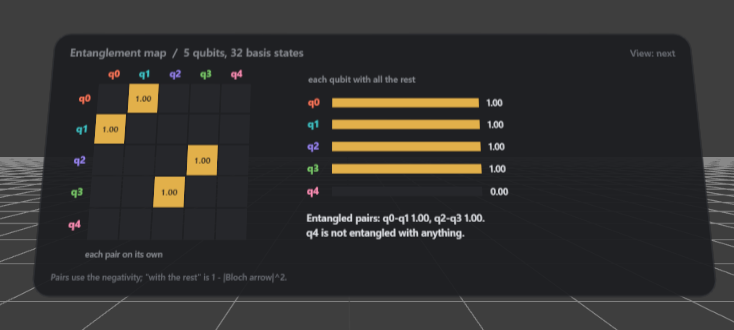
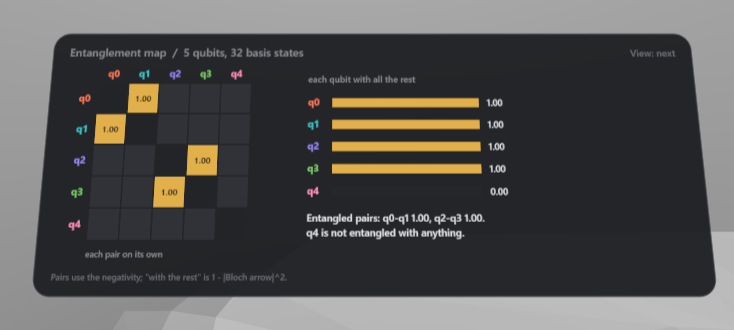
More README screenshots, and fixes found taking them
- README: debugger on a measurement, GHZ entanglement map, voice reply,
  share dialog, a refused gate in a shared lab, the student's view
- Debugger and class panels hang from their top edge under the board, so
  long explanations or many students never cover it
- Voice replies give the shared lab's reason when a gate is refused
- Room links drop unrelated query parameters (keep only ?relay=)
- Students see their teacher's name; no start button once all is done
- Certificate redraws when the teacher's name arrives
- Entanglement map: empty cells visible, diagonal darker

Changed region(s): [[0.0, 0.0, 1.0, 1.0]]

diff --git a/src/game/ui-system.ts b/src/game/ui-system.ts
@@ -67,6 +67,8 @@ const PLACEMENT = {
   'notes-zoom': { pos: new Vector3(0, 0.4, -0.05), rot: new Euler(0, 0, 0, 'YXZ') },
   // notes: in front of the circuit board, low enough to read without looking up
   'notes-panel': { pos: new Vector3(0, 0.3, -0.17), rot: new Euler(-0.1, 0, 0, 'YXZ') },
+  // the debugger and class panel hang from their top edge (anchor-y: top), just under the raised board
+  'under-board': { pos: new Vector3(0, 0.332, -0.17), rot: new Euler(-0.1, 0, 0, 'YXZ') },
   // upper right, opposite the chapter card and above the dock
   'nav-panel': { pos: new Vector3(0.47, 0.26, -0.06), rot: new Euler(-0.12, (-32 * Math.PI) / 180, 0, 'YXZ') },
 } as const;
@@ -177,8 +179,8 @@ export class UISystem extends createSystem({
   private libAsset: UIKitMLAsset | null = null;
   private dbgAsset: UIKitMLAsset | null = null;
   private classAsset: UIKitMLAsset | null = null;
-  /** student rows showing on the class panel: it grows downward as they join */
-  private classRows = 0;
+  /** why the shared lab last refused an op (for the voice reply) */
+  private refused: string | null = null;
   /** Shared lab or classroom, while in one. */
   private room: SharedRoom | null = null;
   private classOpen = false;
@@ -259,6 +261,7 @@ export class UISystem extends createSystem({
           if (e.type === 'select') this.room.select(e.qubit);
         }
         if (e.type === 'rejected' && lab.guard) {
+          this.refused = e.reason;
           this.flash(e.reason);
           feedback('reject');
         }
@@ -732,8 +735,10 @@ export class UISystem extends createSystem({
       this.flash(`Heard "${text.trim()}": not a command I know.`);
       return feedback('reject');
     }
+    this.refused = null;
     const ok = this.runVoice(cmd);
-    this.flash(`Heard "${text.trim()}": ${ok ? describeVoice(cmd) : `${describeVoice(cmd)} is not possible here`}.`);
+    // a shared lab refusing the gate says why (whose qubit it is); keep that rather than a generic no
+    this.flash(`Heard "${text.trim()}": ${ok ? `${describeVoice(cmd)}.` : this.refused ?? `${describeVoice(cmd)} is not possible here.`}`);
     feedback(ok ? 'select' : 'reject');
   }
 
@@ -884,7 +889,9 @@ export class UISystem extends createSystem({
   }
 
   private roomLink(code: string): string {
-    return `${location.origin}${location.pathname}${location.search}#room=${code}`;
+    // keep only the relay choice: other query parameters (dev tooling) don't belong in a shared link
+    const relay = new URLSearchParams(location.search).get('relay');
+    return `${location.origin}${location.pathname}${relay ? `?relay=${encodeURIComponent(relay)}` : ''}#room=${code}`;
   }
 
   /** A #room=CODE link joins that room. */
@@ -1082,7 +1089,9 @@ export class UISystem extends createSystem({
     const students = [...r.peers.values()].filter((p) => p.role === 'student');
     const steps = (m: number) => COURSE[m]?.steps.length ?? 1;
     const titles = (ms: readonly number[]) => ms.map((m) => `${m + 1} ${COURSE[m]?.title ?? ''}`).join(', ');
-    this.text('cl-eyebrow', `Class ${r.code}  /  ${students.length} student${students.length === 1 ? '' : 's'}${teacher ? '' : `  /  you: ${r.me.name}`}`);
+    // the teacher counts students; a student sees who teaches the class
+    const teacherName = [...r.peers.values()].find((p) => p.role === 'teacher')?.name;
+    this.text('cl-eyebrow', teacher ? `Class ${r.code}  /  ${students.length} student${students.length === 1 ? '' : 's'}` : `Class ${r.code}${teacherName ? `  /  teacher ${teacherName}` : ''}  /  you: ${r.me.name}`);
     this.text('cl-title', teacher ? 'Assign modules, watch progress' : 'Your assignment');
     this.els.get('cl-pick')?.setProperties({ display: teacher ? 'flex' : 'none' });
     const picked = r.assigned.includes(this.classPick);
@@ -1094,7 +1103,6 @@ export class UISystem extends createSystem({
     const rows: { name: string; p: Progress | undefined }[] = teacher
       ? students.map((s) => ({ name: s.name, p: r.progress.get(s.id) }))
       : [{ name: r.me.name, p: { mode: campaign.mode, module: campaign.courseIndex, step: campaign.view.chapterDone ? steps(campaign.courseIndex) : campaign.view.stepIndex, steps: steps(campaign.courseIndex), done: [...campaign.coursed] } }];
-    this.classRows = Math.min(rows.length, 6);
     for (let i = 0; i < 6; i++) {
       const row = rows[i];
       this.els.get(`cl-r-${i}`)?.setProperties({ display: row ? 'flex' : 'none' });
@@ -1110,7 +1118,9 @@ export class UISystem extends createSystem({
     }
     if (!rows.length) this.text('cl-line', `${r.assigned.length ? `Assigned: ${titles(r.assigned)}. ` : ''}No students yet: they join with code ${r.code}.`);
     this.els.get('cl-list')?.setProperties({ display: rows.length ? 'flex' : 'none' });
-    this.els.get('cl-go')?.setProperties({ display: teacher ? 'none' : 'flex' });
+    // nothing left to start once every assigned module is done
+    const todo = r.assigned.some((m) => !campaign.coursed.has(m));
+    this.els.get('cl-go')?.setProperties({ display: teacher || !todo ? 'none' : 'flex' });
     this.els.get('cl-cert')?.setProperties({ display: teacher ? 'none' : 'flex' });
     this.bg('cl-cert', this.certificateInfo() ? C.done : '#34363b');
   }
@@ -2031,16 +2041,14 @@ export class UISystem extends createSystem({
       this.notesAsset!.position.copy(PARKED);
     }
     if (this.classOpen) {
-      this.place(this.classAsset!, 'notes-panel');
-      // the panel grows from its centre: keep its top edge under the board
-      this.classAsset!.position.y -= 0.011 * Math.max(0, this.classRows - 1);
+      this.place(this.classAsset!, 'under-board');
       this.classAsset!.visible = true;
     } else {
       this.classAsset!.visible = false;
       this.classAsset!.position.copy(PARKED);
     }
     if (this.dbgOpen) {
-      this.place(this.dbgAsset!, 'notes-panel');
+      this.place(this.dbgAsset!, 'under-board');
       this.dbgAsset!.visible = true;
     } else {
       this.dbgAsset!.visible = false;

diff --git a/src/lab/lab-system.ts b/src/lab/lab-system.ts
@@ -540,7 +540,7 @@ export class LabSystem extends createSystem({
 
   /** The completion certificate on the board (null puts the circuit back). */
   showCertificate(info: CertificateInfo | null): void {
-    this.showOverlay(info ? `cert:${info.name}:${info.modules.join(',')}` : null, info ? (b) => b.draw((g, w, h) => drawCertificate(g, w, h, info)) : undefined);
+    this.showOverlay(info ? `cert:${info.name}:${info.modules.join(',')}:${info.context}` : null, info ? (b) => b.draw((g, w, h) => drawCertificate(g, w, h, info)) : undefined);
   }
 
   /** A big-state view (null puts the circuit back). */

diff --git a/src/lab/circuit-board.ts b/src/lab/circuit-board.ts
@@ -569,7 +569,8 @@ export class CircuitBoard {
       for (let a = 0; a < n; a++)
         for (let c = 0; c < n; c++) {
           const x = x0 + c * size, y = y0 + a * size;
-          g.fillStyle = '#26272b';
+          // empty cells stay visible; the diagonal (a qubit with itself) is darker
+          g.fillStyle = a === c ? '#232428' : '#303237';
           g.fillRect(x + 2, y + 2, size - 4, size - 4);
           if (a === c) continue;
           const v = m.pair[a][c];

diff --git a/README.md b/README.md
@@ -456,7 +456,9 @@ included, in anyone's sandbox. Links are validated before anything is loaded.
 
 ## Step debugger
 
-![The step debugger stopped at a breakpoint on a GHZ circuit, with the histogram and the reason for the change](docs/screenshots/step-debugger.png)
+| Stopped at a breakpoint | Stepping onto a measurement |
+| --- | --- |
+| ![The step debugger stopped at a breakpoint on a GHZ circuit: the pair q0-q1 is no longer entangled on its own because the entanglement spans the whole group](docs/screenshots/step-debugger.png) | ![The debugger on a measured Bell pair: measuring q0 = 1 collapsed the state onto 11, and q0 and q1 are no longer entangled](docs/screenshots/debugger-measure.png) |
 
 **Debug** on the dock (or Shift+D) opens a debugger for the circuit on the orbs.
 Step back and forward one gate at a time, set **breakpoints** on timeline steps
@@ -489,9 +491,13 @@ too big for one Bloch sphere each.
   underneath. A GHZ state shows weak pairs but every qubit fully entangled: the
   entanglement belongs to the whole group.
 
-![Entanglement map: two Bell pairs light up q0-q1 and q2-q3, and q4 is on its own](docs/screenshots/heatmap.png)
+| Two Bell pairs | A four-qubit GHZ state |
+| --- | --- |
+| ![Entanglement map: two Bell pairs light up q0-q1 and q2-q3, and q4 is on its own](docs/screenshots/heatmap.png) | ![Entanglement map of a GHZ state: no pair is entangled on its own, yet every qubit is fully entangled with the rest](docs/screenshots/heatmap-ghz.png) |
 
 ## Voice commands
+
+![The dock after saying "entangle zero and one": the reply shows it heard a CNOT from q0 to q1](docs/screenshots/voice.png)
 
 **Voice** on the dock (or V) listens through the browser's speech recogniser.
 It is forgiving about how things are said, and every
@@ -522,6 +528,10 @@ are refused with a short note. A two-qubit gate is allowed when one of the
 qubits is yours or free, so you can still entangle with a partner. Someone who
 joins as a teacher can turn any qubit.
 
+| The room on the 2D page | Someone else's qubit |
+| --- | --- |
+| ![The share dialog for room LK7QF: a QR code, the link and who is here](docs/screenshots/share-dialog.png) | ![Saying "Hadamard on qubit zero" in a shared lab: q0 belongs to Ana, so the gate is refused](docs/screenshots/shared-refused.png) |
+
 Rooms have a short code (`LK7QF`) and a link with a QR code, so a phone or a
 second headset joins by scanning it. Edits that cross are settled the same way
 on every device (newest version wins, ties by id), so everyone ends up with the
@@ -538,7 +548,9 @@ Without a relay, tabs on the same device still share a room.
 
 ## Classroom and certificate
 
-![The teacher's class panel: two modules assigned and six students' progress](docs/screenshots/class-dashboard.png)
+| The teacher's panel | A student who has finished |
+| --- | --- |
+| ![The teacher's class panel: two modules assigned and six students' progress](docs/screenshots/class-dashboard.png) | ![A student's view: the assignment is done and the certificate is on the board](docs/screenshots/student-certificate.png) |
 
 **Start a class** makes the teacher's room (`C7QF2`). The teacher picks course
 modules on the class panel and presses **Assign** (or says "assign module
